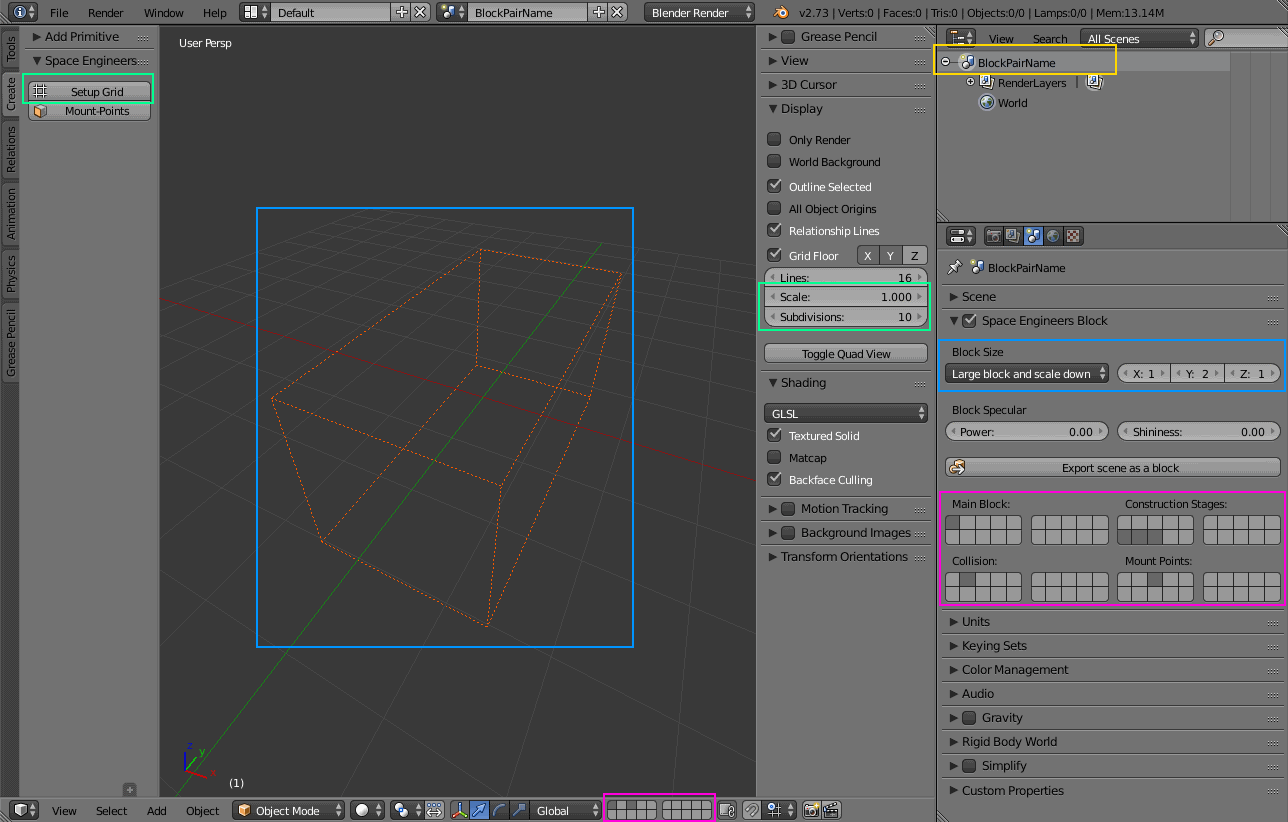
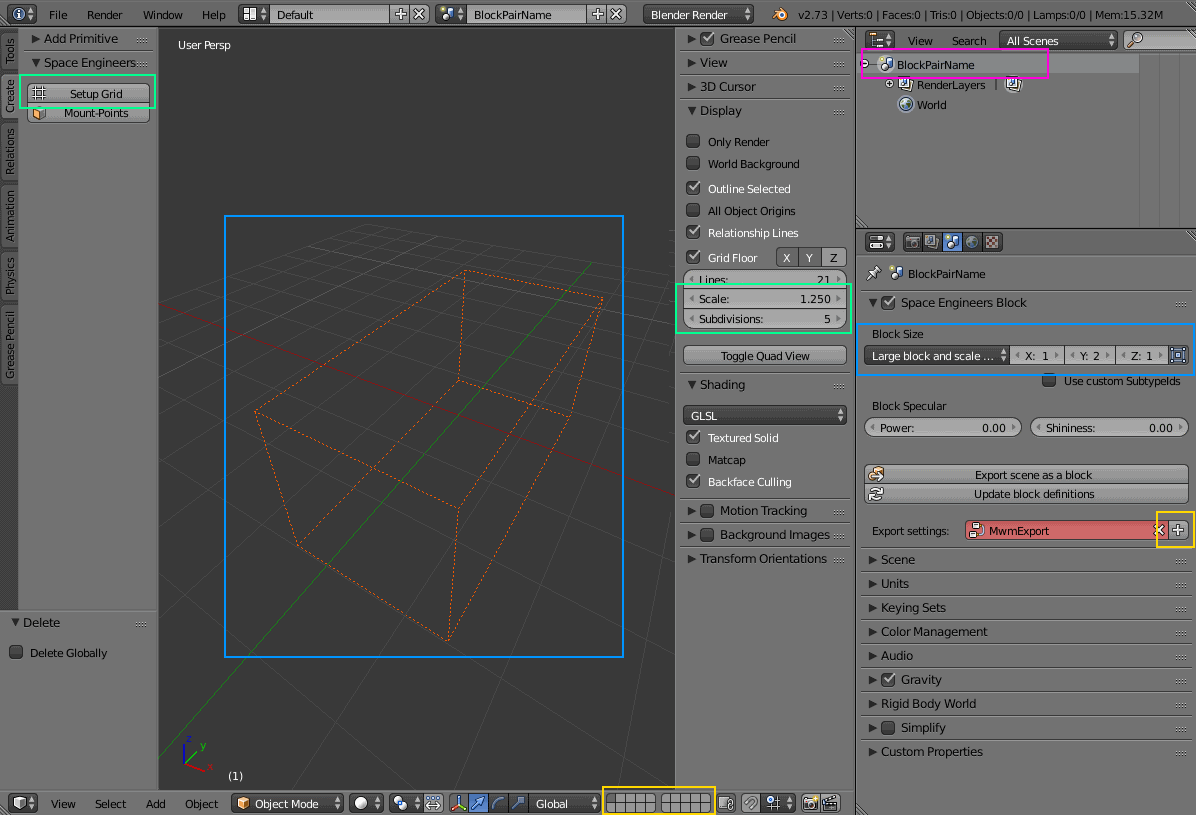
documentation changes

diff --git a/index.html b/index.html
@@ -518,10 +518,11 @@ table.CodeRay td.code>pre{padding:0}
 <li><a href="#file-layout">File layout</a></li>
 <li><a href="#scene-layout">Scene Layout</a>
 <ul class="sectlevel3">
-<li><a href="#main-layer">Main Layer</a></li>
-<li><a href="#collision-layer">Collision Layer</a></li>
+<li><a href="#main-model">Main Model</a></li>
+<li><a href="#collision-model">Collision Model</a></li>
 <li><a href="#mount-points">Mount Points</a></li>
-<li><a href="#construction-layers">Construction Layers</a></li>
+<li><a href="#construction-phases">Construction Phases</a></li>
+<li><a href="#levels-of-detail">Levels of Detail</a></li>
 </ul>
 </li>
 <li><a href="#textures">Textures</a>
@@ -544,7 +545,9 @@ table.CodeRay td.code>pre{padding:0}
 <li><a href="#exporting">Exporting</a>
 <ul class="sectlevel2">
 <li><a href="#naming-conventions">Naming Conventions</a></li>
+<li><a href="#configuring-the-export">Configuring the Export</a></li>
 <li><a href="#exporting-mwm-files">Exporting .mwm files</a></li>
+<li><a href="#customizing-the-export">Customizing the Export</a></li>
 <li><a href="#block-definitions">Block Definitions</a></li>
 <li><a href="#updating-cubeblocks-sbc">Updating CubeBlocks.sbc</a></li>
 </ul>
@@ -705,14 +708,9 @@ Don&#8217;t forget to "Save User Settings".
 </div>
 <div class="sect2">
 <h3 id="scene-layout"><a class="anchor" href="#scene-layout"></a>Scene Layout</h3>
-<div class="imageblock thumb" style="float: right">
-<div class="content">
-<a class="image" href="images/blender-scene.png"><img src="./images/blender-scene.png" alt="blender scene" width="450"></a>
-</div>
-</div>
 <div class="paragraph">
 <p>Inside Blender the add-on uses one scene per block.
-That&#8217;s why the block-settings are on the scene tab of the properties-panel.</p>
+That&#8217;s why the block-settings are on the <a href="images/blender-scene.png">scene tab</a> of the properties-panel.</p>
 </div>
 <div class="paragraph">
 <p>On this panel you define if the block is a large or a small block and if the export should automatically
@@ -721,33 +719,40 @@ You also define the size of your block in in-game grid units here.</p>
 </div>
 <div class="paragraph">
 <p>The layers of the scene contain the different components of a block.
-If you don&#8217;t like the default layout you can change it with the corresponding layer masks on the scene panel.</p>
+This is the default layer-setup described below:</p>
+</div>
+<div class="imageblock" style="text-align: center">
+<div class="content">
+<img src="./images/layer-overview.png" alt="layer overview">
+</div>
 </div>
 <div class="sect3">
-<h4 id="main-layer"><a class="anchor" href="#main-layer"></a>Main Layer</h4>
+<h4 id="main-model"><a class="anchor" href="#main-model"></a>Main Model</h4>
 <div class="paragraph">
-<p>By default you have one layer that contains the model of the fully-built block.
-You don&#8217;t need to restrict yourself to only one mesh-object.
-If it&#8217;s useful to split your block into several objects (probably to apply modifiers to some of them) by all means do so.</p>
+<p>The first layer contains the model of the fully-built block.
+You don&#8217;t need to restrict yourself to only one mesh-object on this layer.
+If it&#8217;s useful to split your block into several objects&#8201;&#8212;&#8201;probably to apply modifiers to some of them&#8201;&#8212;&#8201;by all means do so.</p>
 </div>
 </div>
 <div class="sect3">
-<h4 id="collision-layer"><a class="anchor" href="#collision-layer"></a>Collision Layer</h4>
+<h4 id="collision-model"><a class="anchor" href="#collision-model"></a>Collision Model</h4>
 <div class="imageblock thumb" style="float: right">
 <div class="content">
 <a class="image" href="images/blender-physics.png"><img src="./images/blender-physics.png" alt="blender physics" width="450"></a>
 </div>
 </div>
 <div class="paragraph">
-<p>Next you have a layer that contains the simplified meshes that represent the block&#8217;s collision shape.
+<p>The second layer contains the simplified meshes that represent the block&#8217;s collision shape.
 If you don&#8217;t provide any collision meshes or unmark the layer the resulting .mwm file
 will not contain collision data and SE will default to a simple collision box that encompasses the whole block.</p>
 </div>
 <div class="paragraph">
 <p>Havok, the physics engine of SE, requires some settings to do its work.
 You provide those on Blender&#8217;s Physics tab by enabling <code>Rigid Bodies</code> for your collision meshes.
-Only the settings <code>Shape</code>, <code>Mass</code>, <code>Friction</code> and <code>Bounciness</code> (Restitution) are exported to Havok.
-Of those <code>Shape</code> is the most important one because it has a significant performance impact.
+Only the settings <code>Shape</code>, <code>Mass</code>, <code>Friction</code> and <code>Bounciness</code> (Restitution) are exported to Havok.</p>
+</div>
+<div class="paragraph">
+<p>Of those settings <code>Shape</code> is the most important because it has a significant performance impact.
 Whenever possible try to only approximate the shape of your block.
 Use primitive shapes like <code>Box</code> or <code>Cylinder</code>. Use <code>Convex Hull</code> only if necessary. Avoid <code>Mesh</code> collisions.</p>
 </div>
@@ -816,40 +821,41 @@ to some of the mount point faces.</p>
 </div>
 <div class="paragraph">
 <p>For mount point editing it is a good idea to switch to <a href="images/blender-mp-ortho.png">ortho-view</a> (<code>Numpad 5</code>) and
-turn on 'snap to grid'. Also, if the mount point layer is visible the add-on will show a box with dashed, orange lines.
-The lines represents the in-game size of the block as it is defined on the scene tab.
+turn on 'snap to grid'.
+You can also tell the add-on to show the block&#8217;s bounding box by enabling the option on the <a href="images/blender-scene.png">scene tab</a>.
+It&#8217;s dashed, orange lines represent the space your block occupies in-game.
 This should help you to position the mount points correctly.</p>
 </div>
 <div class="paragraph">
-<p>If you don&#8217;t provide mount points or unmark the layer none will be calculated.
+<p>If you don&#8217;t provide mount points none will be calculated.
 The game defaults to full mount points on all sides of the block in that case.</p>
 </div>
 </div>
 <div class="sect3">
-<h4 id="construction-layers"><a class="anchor" href="#construction-layers"></a>Construction Layers</h4>
+<h4 id="construction-phases"><a class="anchor" href="#construction-phases"></a>Construction Phases</h4>
 <div class="paragraph">
-<p>Lastly there are several layers for the construction phases of the block.
+<p>Layers 11-13 are used for the construction phases of the block.
 There is one layer for each phase of construction, from earliest to latest.
 If you change the number of construction layers you increase or decrease the number of construction phases.
 A block is allowed to have no construction phases at all.</p>
 </div>
-<div class="admonitionblock warning">
+<div class="admonitionblock note">
 <table>
 <tr>
 <td class="icon">
-<i class="fa icon-warning" title="Warning"></i>
+<i class="fa icon-note" title="Note"></i>
 </td>
 <td class="content">
-If you don&#8217;t have meshes on a construction layer MwmBuilder will fail to produce a .mwm file for that phase.
+If you don&#8217;t have meshes on a construction layer it will be skipped and your block will have one phase less.
 </td>
 </tr>
 </table>
 </div>
 <div class="paragraph">
-<p>The construction phases reuse the same collision shape your main block model uses.
-There is currently no way to define separate collision models for the construction phases
-but it would probably be unwise to have those, anyway.
-A block model that changes its physical dimensions while the player is welding right next to it can be dangerous.</p>
+<p>By default the construction phases reuse the same collision shape your main block model uses.
+It&#8217;s possible to change that using different export settings.
+But keep in mind that can be dangerous to a ship or the player
+if a block changes its physical dimensions when it is welded to completion.</p>
 </div>
 <div class="admonitionblock tip">
 <table>
@@ -859,8 +865,30 @@ A block model that changes its physical dimensions while the player is welding r
 </td>
 <td class="content">
 A Blender mesh-object can be assigned to several layers.
-So if your construction models gets more and more detailed you can start with the initial frame as one object that
+So if your construction models get more and more detailed you can start with the basic shape as one object that
 is visible on all construction layers and then progressively add more objects towards the final construction layer.
+</td>
+</tr>
+</table>
+</div>
+</div>
+<div class="sect3">
+<h4 id="levels-of-detail"><a class="anchor" href="#levels-of-detail"></a>Levels of Detail</h4>
+<div class="paragraph">
+<p>Layers 6-8 are used to model versions of your main model that have progressively less detail.
+The game can display those models when the block is too far away to see the small details of your main model.
+This way less triangles need to be rendered which is good for performance.
+The default distances at which the models are switched are 10, 30 and 50.</p>
+</div>
+<div class="admonitionblock note">
+<table>
+<tr>
+<td class="icon">
+<i class="fa icon-note" title="Note"></i>
+</td>
+<td class="content">
+If you don&#8217;t have meshes on a LOD layer it will not be included in the export and
+the game will not switch models at that distance.
 </td>
 </tr>
 </table>
@@ -1165,7 +1193,7 @@ For those there is the <code>file</code> property on the Data tab of the empty.<
 </tr>
 <tr>
 <td class="tableblock halign-left valign-top"><p class="tableblock">SubtypeId</p></td>
-<td class="tableblock halign-left valign-top"><p class="tableblock"><code>{BlockPairName}_{Large|Small}</code></p></td>
+<td class="tableblock halign-left valign-top"><p class="tableblock"><code>{BlockPairName}_{CubeSize}</code></p></td>
 </tr>
 <tr>
 <td class="tableblock halign-left valign-top"><p class="tableblock">Model</p></td>
@@ -1173,7 +1201,11 @@ For those there is the <code>file</code> property on the Data tab of the empty.<
 </tr>
 <tr>
 <td class="tableblock halign-left valign-top"><p class="tableblock">Construction Model</p></td>
-<td class="tableblock halign-left valign-top"><p class="tableblock"><code>Models\{SubtypeId}_Construction{n}.mwm</code></p></td>
+<td class="tableblock halign-left valign-top"><p class="tableblock"><code>Models\{SubtypeId}_Constr{n}.mwm</code></p></td>
+</tr>
+<tr>
+<td class="tableblock halign-left valign-top"><p class="tableblock">Level-of-Detail Model</p></td>
+<td class="tableblock halign-left valign-top"><p class="tableblock"><code>Models\{SubtypeId}_LOD{n}.mwm</code></p></td>
 </tr>
 <tr>
 <td class="tableblock halign-left valign-top"><p class="tableblock">Icon</p></td>
@@ -1195,15 +1227,28 @@ So it&#8217;s important that you choose a sufficiently unique name for the scene
 </table>
 </div>
 <div class="paragraph">
-<p>Currently you can only customize the SubtypeIds of blocks by enabling the corresponding option in the scene properties.
+<p>You can customize the SubtypeIds of blocks by enabling the corresponding option in the scene properties.
 This is primarily meant for mod authors that want to use the add-on but need their existing blocks to keep their ids
 to remain backwards-compatible. Otherwise there is hardly a good reason to change them.</p>
 </div>
 </div>
 <div class="sect2">
+<h3 id="configuring-the-export"><a class="anchor" href="#configuring-the-export"></a>Configuring the Export</h3>
+<div class="imageblock thumb" style="float: right">
+<div class="content">
+<img src="./images/blender-no-nodes-yet.png" alt="blender no nodes yet">
+</div>
+</div>
+<div class="paragraph">
+<p>The add-on uses a custom Blender node-tree to configure the export.
+Initially your .blend file contains no such node-tree and your scene&#8217;s default settings-name <code>MwmExport</code>
+will be displayed as invalid. You can create the default settings by clicking on the <code>+</code> next to the settings-selector.</p>
+</div>
+</div>
+<div class="sect2">
 <h3 id="exporting-mwm-files"><a class="anchor" href="#exporting-mwm-files"></a>Exporting .mwm files</h3>
 <div class="paragraph">
-<p>The export itself runs through theses steps once you have chosen an output directory:</p>
+<p>By default the export runs through theses steps once you have chosen an output directory:</p>
 </div>
 <div class="olist arabic">
 <ol class="arabic">
@@ -1217,7 +1262,7 @@ to remain backwards-compatible. Otherwise there is hardly a good reason to chang
 <p>Run the <code>.hkt</code> file through Havok&#8217;s filter-manager to calculate and add rigid body data to it</p>
 </li>
 <li>
-<p>Repeat the following steps for the main layer and all construction layers</p>
+<p>Repeat the following steps for the main layer and all construction and level-of-detail layers</p>
 <div class="olist loweralpha">
 <ol class="loweralpha" type="a">
 <li>
@@ -1241,17 +1286,25 @@ to remain backwards-compatible. Otherwise there is hardly a good reason to chang
 <i class="fa icon-note" title="Note"></i>
 </td>
 <td class="content">
-Every external conversion step is logged to a separate log file which all start with the name of the block.
-If the export fails for any reason a first step should be to consult these log-files.
+The add-on logs the result of each step of the export in Blender&#8217;s <a href="images/blender-report.png">info-log</a>.
+In addition the output of external tools is logged to separate log files that are all named like the file that is
+exported in each step with <code>.log</code> appended.
+If a step fails for any reason you should consult these log-files.
 </td>
 </tr>
 </table>
 </div>
 </div>
 <div class="sect2">
+<h3 id="customizing-the-export"><a class="anchor" href="#customizing-the-export"></a>Customizing the Export</h3>
+<div class="paragraph">
+<p>TODO (describe the node editor)</p>
+</div>
+</div>
+<div class="sect2">
 <h3 id="block-definitions"><a class="anchor" href="#block-definitions"></a>Block Definitions</h3>
 <div class="paragraph">
-<p>When you export .mwm files the add-on automatically creates a corresponding .blockdef.xml file for each exported block.
+<p>When you export .mwm files the add-on also creates a corresponding <code>.blockdef.xml</code> file for each exported block.
 This file contains all the information that is available in Blender and that is relevant
 for a block&#8217;s <code>&lt;Definition&gt;</code> inside your mod&#8217;s <code>CubeBlocks.sbc</code>:</p>
 </div>
@@ -1268,13 +1321,13 @@ for a block&#8217;s <code>&lt;Definition&gt;</code> inside your mod&#8217;s <cod
   <span class="tag">&lt;ModelOffset</span> <span class="attribute-name">x</span>=<span class="string"><span class="delimiter">&quot;</span><span class="content">0</span><span class="delimiter">&quot;</span></span> <span class="attribute-name">y</span>=<span class="string"><span class="delimiter">&quot;</span><span class="content">0</span><span class="delimiter">&quot;</span></span> <span class="attribute-name">z</span>=<span class="string"><span class="delimiter">&quot;</span><span class="content">0</span><span class="delimiter">&quot;</span></span><span class="tag">/&gt;</span>
   <span class="tag">&lt;Model&gt;</span>Models\ExampleBlock_Large.mwm<span class="tag">&lt;/Model&gt;</span>
   <span class="tag">&lt;BuildProgressModels&gt;</span>
-    <span class="tag">&lt;Model</span> <span class="attribute-name">BuildPercentUpperBound</span>=<span class="string"><span class="delimiter">&quot;</span><span class="content">0.33</span><span class="delimiter">&quot;</span></span> <span class="attribute-name">File</span>=<span class="string"><span class="delimiter">&quot;</span><span class="content">Models\ExampleBlock_Large_Construction1.mwm</span><span class="delimiter">&quot;</span></span><span class="tag">/&gt;</span>
-    <span class="tag">&lt;Model</span> <span class="attribute-name">BuildPercentUpperBound</span>=<span class="string"><span class="delimiter">&quot;</span><span class="content">0.67</span><span class="delimiter">&quot;</span></span> <span class="attribute-name">File</span>=<span class="string"><span class="delimiter">&quot;</span><span class="content">Models\ExampleBlock_Large_Construction2.mwm</span><span class="delimiter">&quot;</span></span><span class="tag">/&gt;</span>
-    <span class="tag">&lt;Model</span> <span class="attribute-name">BuildPercentUpperBound</span>=<span class="string"><span class="delimiter">&quot;</span><span class="content">1.00</span><span class="delimiter">&quot;</span></span> <span class="attribute-name">File</span>=<span class="string"><span class="delimiter">&quot;</span><span class="content">Models\ExampleBlock_Large_Construction3.mwm</span><span class="delimiter">&quot;</span></span><span class="tag">/&gt;</span>
+    <span class="tag">&lt;Model</span> <span class="attribute-name">BuildPercentUpperBound</span>=<span class="string"><span class="delimiter">&quot;</span><span class="content">0.33</span><span class="delimiter">&quot;</span></span> <span class="attribute-name">File</span>=<span class="string"><span class="delimiter">&quot;</span><span class="content">Models\ExampleBlock_Large_Constr1.mwm</span><span class="delimiter">&quot;</span></span><span class="tag">/&gt;</span>
+    <span class="tag">&lt;Model</span> <span class="attribute-name">BuildPercentUpperBound</span>=<span class="string"><span class="delimiter">&quot;</span><span class="content">0.67</span><span class="delimiter">&quot;</span></span> <span class="attribute-name">File</span>=<span class="string"><span class="delimiter">&quot;</span><span class="content">Models\ExampleBlock_Large_Constr2.mwm</span><span class="delimiter">&quot;</span></span><span class="tag">/&gt;</span>
+    <span class="tag">&lt;Model</span> <span class="attribute-name">BuildPercentUpperBound</span>=<span class="string"><span class="delimiter">&quot;</span><span class="content">1.00</span><span class="delimiter">&quot;</span></span> <span class="attribute-name">File</span>=<span class="string"><span class="delimiter">&quot;</span><span class="content">Models\ExampleBlock_Large_Constr3.mwm</span><span class="delimiter">&quot;</span></span><span class="tag">/&gt;</span>
   <span class="tag">&lt;/BuildProgressModels&gt;</span>
   <span class="tag">&lt;MountPoints&gt;</span>
-    <span class="tag">&lt;MountPoint</span> <span class="attribute-name">EndX</span>=<span class="string"><span class="delimiter">&quot;</span><span class="content">1.00</span><span class="delimiter">&quot;</span></span> <span class="attribute-name">EndY</span>=<span class="string"><span class="delimiter">&quot;</span><span class="content">0.40</span><span class="delimiter">&quot;</span></span> <span class="attribute-name">Side</span>=<span class="string"><span class="delimiter">&quot;</span><span class="content">Left</span><span class="delimiter">&quot;</span></span> <span class="attribute-name">StartX</span>=<span class="string"><span class="delimiter">&quot;</span><span class="content">0.30</span><span class="delimiter">&quot;</span></span> <span class="attribute-name">StartY</span>=<span class="string"><span class="delimiter">&quot;</span><span class="content">0.00</span><span class="delimiter">&quot;</span></span><span class="tag">/&gt;</span>
-    <span class="tag">&lt;MountPoint</span> <span class="attribute-name">EndX</span>=<span class="string"><span class="delimiter">&quot;</span><span class="content">0.30</span><span class="delimiter">&quot;</span></span> <span class="attribute-name">EndY</span>=<span class="string"><span class="delimiter">&quot;</span><span class="content">0.10</span><span class="delimiter">&quot;</span></span> <span class="attribute-name">Side</span>=<span class="string"><span class="delimiter">&quot;</span><span class="content">Left</span><span class="delimiter">&quot;</span></span> <span class="attribute-name">StartX</span>=<span class="string"><span class="delimiter">&quot;</span><span class="content">0.00</span><span class="delimiter">&quot;</span></span> <span class="attribute-name">StartY</span>=<span class="string"><span class="delimiter">&quot;</span><span class="content">0.00</span><span class="delimiter">&quot;</span></span><span class="tag">/&gt;</span>
+    <span class="tag">&lt;MountPoint</span> <span class="attribute-name">Side</span>=<span class="string"><span class="delimiter">&quot;</span><span class="content">Left</span><span class="delimiter">&quot;</span></span> <span class="attribute-name">StartX</span>=<span class="string"><span class="delimiter">&quot;</span><span class="content">0.30</span><span class="delimiter">&quot;</span></span> <span class="attribute-name">StartY</span>=<span class="string"><span class="delimiter">&quot;</span><span class="content">0.00</span><span class="delimiter">&quot;</span></span> <span class="attribute-name">EndX</span>=<span class="string"><span class="delimiter">&quot;</span><span class="content">1.00</span><span class="delimiter">&quot;</span></span> <span class="attribute-name">EndY</span>=<span class="string"><span class="delimiter">&quot;</span><span class="content">0.40</span><span class="delimiter">&quot;</span></span><span class="tag">/&gt;</span>
+    <span class="tag">&lt;MountPoint</span> <span class="attribute-name">Side</span>=<span class="string"><span class="delimiter">&quot;</span><span class="content">Left</span><span class="delimiter">&quot;</span></span> <span class="attribute-name">StartX</span>=<span class="string"><span class="delimiter">&quot;</span><span class="content">0.00</span><span class="delimiter">&quot;</span></span> <span class="attribute-name">StartY</span>=<span class="string"><span class="delimiter">&quot;</span><span class="content">0.00</span><span class="delimiter">&quot;</span></span> <span class="attribute-name">EndX</span>=<span class="string"><span class="delimiter">&quot;</span><span class="content">0.30</span><span class="delimiter">&quot;</span></span> <span class="attribute-name">EndY</span>=<span class="string"><span class="delimiter">&quot;</span><span class="content">0.10</span><span class="delimiter">&quot;</span></span><span class="tag">/&gt;</span>
     ...
   <span class="tag">&lt;/MountPoints&gt;</span>
   <span class="tag">&lt;BlockPairName&gt;</span>ExampleBlock<span class="tag">&lt;/BlockPairName&gt;</span>
@@ -1285,8 +1338,8 @@ for a block&#8217;s <code>&lt;Definition&gt;</code> inside your mod&#8217;s <cod
 <div class="sect2">
 <h3 id="updating-cubeblocks-sbc"><a class="anchor" href="#updating-cubeblocks-sbc"></a>Updating CubeBlocks.sbc</h3>
 <div class="paragraph">
-<p>You can also use the "Update block definitions" operation to tell the add-on to take the same XML data it writes to a .blockdef.xml file and
-merge it with matching <code>&lt;Definition&gt;</code> sections of your mod&#8217;s <code>CubeBlocks.sbc</code>.
+<p>You can use the "Update block definitions" operation to tell the add-on to take the same XML data
+it writes to a <code>.blockdef.xml</code> file and merge it with matching <code>&lt;Definition&gt;</code> sections of your mod&#8217;s <code>CubeBlocks.sbc</code>.
 That saves you the trouble to do this by hand.</p>
 </div>
 <div class="admonitionblock note">
@@ -1309,7 +1362,7 @@ You can use the content of a .blockdef.xml file as an initial skeleton for a blo
 </div>
 <div id="footer">
 <div id="footer-text">
-Last updated 2015-02-01 13:30:20 CET
+Last updated 2015-02-01 17:01:53 CET
 </div>
 </div>
 </body>
